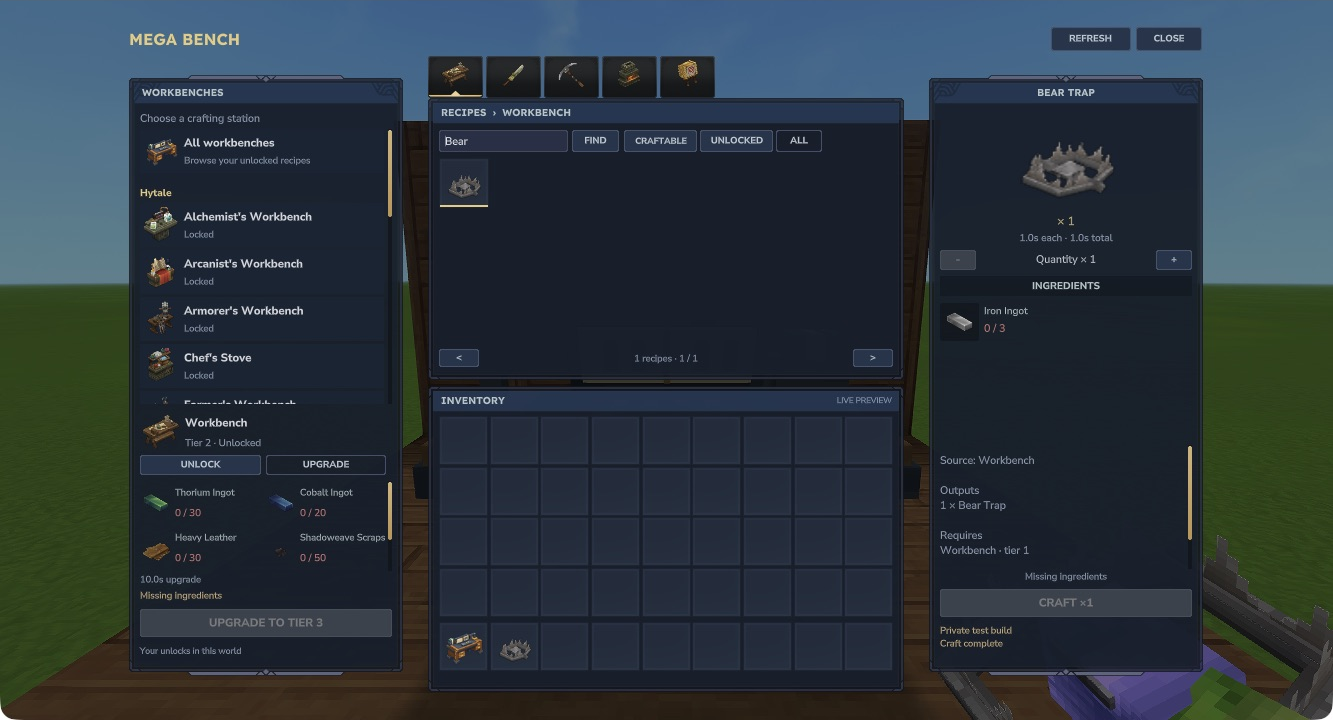
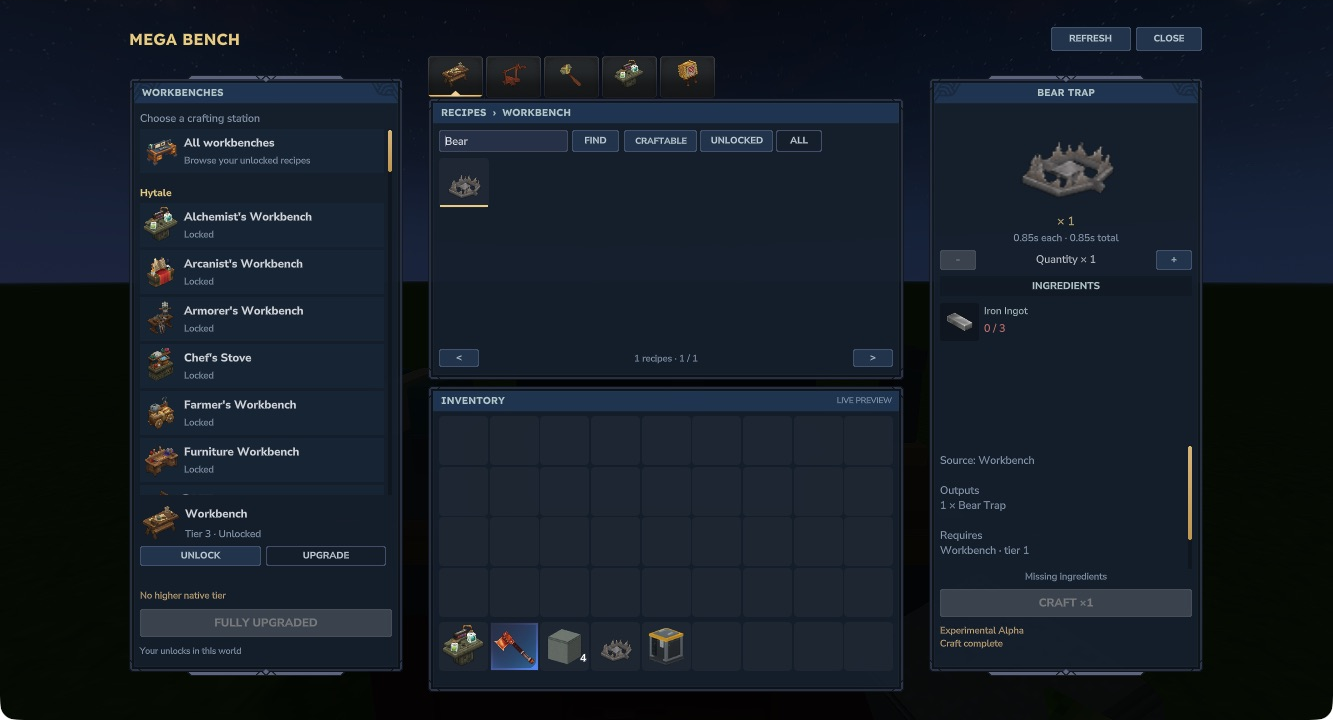
Document the submitted Alpha and refresh native screenshots

diff --git a/docs/index.md b/docs/index.md
@@ -6,9 +6,9 @@ Mega Bench brings compatible workbenches into one spacious native Hytale interfa
 
 Your unlocks belong to you in that world. Replacing the Mega Bench keeps your progress. Unlocking a station pays for its crafting capability; it does not also give you a physical copy of that station.
 
-**Current source candidate:** experimental Alpha **0.1.0-alpha.1**, for **Hytale 0.7.4 / Java 25**. The [CurseForge project](https://www.curseforge.com/hytale/mods/mega-bench) is created; the final native UI check and first file upload are pending. Start in a backed-up test world and read the [support limits](compatibility.md).
+**Current Alpha:** **0.1.0-alpha.1**, for **Hytale 0.7.4 / Java 25**. The native-checked JAR is submitted to [CurseForge](https://www.curseforge.com/hytale/mods/mega-bench) and is **under review**; public availability depends on moderator approval. Start in a backed-up test world and read the [support limits](compatibility.md).
 
-The guide screenshots were captured in development build **0.1.0-spike5r1**. Alpha retains the workshop model and panel layout, with category icons now rendered from loaded native items.
+Current recipe, stock craft and compatibility screenshots show **0.1.0-alpha.1**. Placed-bench photos and the unlock/upgrade walkthrough retain the unchanged model and panel layout from **0.1.0-spike5r1**.
 
 **Experimental preview:** before a more stable 1.0.0, minor updates may change recipes, balance, behaviour or saved data. Back up the complete world and player data before upgrading.
 
@@ -26,7 +26,7 @@ Craft Mega Bench at a stock Workbench using **8 Iron Ingots, 4 Copper Ingots and
 
 [![Current Mega Bench interface showing personal workbench tiers on the left, the recipe grid in the centre and selected recipe details on the right](assets/screenshots/recipe-browser.png)](assets/screenshots/recipe-browser.png)
 
-*Hytale 0.7.4, Mega Bench 0.1.0-spike5r1. Select a workbench to keep its unlock and upgrade controls beneath the source list; the centre remains focused on recipes.*
+*Hytale 0.7.4, Mega Bench 0.1.0-alpha.1. Select a workbench to keep its unlock and upgrade controls beneath the source list; the centre remains focused on recipes.*
 
 Search your unlocked stations, switch their original category tabs, compare the ingredients you own and choose a batch of up to 16 crafts. The bottom inventory is a live preview; use the normal inventory screen to move items.
 

diff --git a/docs/changelog.md b/docs/changelog.md
@@ -1,13 +1,13 @@
 # Development status
 
-## 0.1.0-alpha.1 — candidate
+## 0.1.0-alpha.1 — experimental Alpha
 
 - MIT License added for original Mega Bench code, docs and project assets.
 - Category artwork is rendered through native item widgets; copied game and compatibility UI images are excluded from the public JAR.
 - Native Common.ui slot styles are referenced from the installed game.
 - Crafting, paid progress, inventory authority and saved formats retain the previously verified implementation.
 
-Local build, 11 progress checks, package audit and exact source-build reproduction pass. The final native UI check is pending; no CurseForge file has been uploaded yet.
+Local build, 11 progress checks, package audit and exact source-build reproduction pass. The exact Alpha passed native UI/category loading, stock crafting and normal save/reload. Submitted to [CurseForge](https://www.curseforge.com/hytale/mods/mega-bench) as Alpha; **under review**, with public availability awaiting approval. Hytale **0.7.4 only**; the store's **0.7** tag does not widen compatibility.
 
 ## 0.1.0-spike5r1
 
@@ -21,4 +21,4 @@ Initial development source and player guide for Hytale 0.7.4 / Java 25.
 - Initial ordinary stock, Emberworks Workbench and Foundry Floor adapters.
 - Progress retained through normal reload and bench replacement.
 
-No downloadable binary release is published. Human visual/listening review, actual second-client checks and broader survival/release assurance remain pending. Older development access blocks require normal replacement in a backed-up test world.
+This was the earlier source/guide development build. Human visual/listening review, actual second-client checks and broader survival/release assurance remain pending. Older development access blocks require normal replacement in a backed-up test world.

diff --git a/docs/compatibility.md b/docs/compatibility.md
@@ -2,7 +2,7 @@
 
 ## Supported target
 
-**Mega Bench 0.1.0-alpha.1 candidate** targets **Hytale 0.7.4 / Java 25**. Use the exact matching development build and a backed-up test world. Other Hytale versions are not verified.
+**Mega Bench 0.1.0-alpha.1** targets **Hytale 0.7.4 / Java 25**. Use the exact matching Alpha build and a backed-up test world. Other Hytale versions are not verified.
 
 ## Initial adapters
 
@@ -14,7 +14,7 @@
 | Processing and fuel stations | Use the original station directly |
 | Builder, diagram and unknown plugin interfaces | Separate adapters required |
 
-Current native checks covered paid stock Workbench tiers two and three, an Emberworks Supply Crate and Foundry Poured Factory Concrete. These examples do not establish every recipe or every version combination. The tested compatibility assets are recorded in the source build configuration.
+Current native checks covered paid stock Workbench tiers two and three, an Emberworks Supply Crate and Foundry Poured Factory Concrete. These examples do not establish every recipe or every version combination. The tested compatibility assets are recorded in the source build configuration. The final Alpha also passed native UI loading, all seven Emberworks tabs, Foundry Floor browsing, one exact 3-Iron Bear Trap craft and a normal save/reload with paid tiers intact.
 
 Mega Bench does not provide recursive crafting, a storage network, shared team progress or universal third-party compatibility. Processing-only products retain their source machine rules; the library does not turn them into ordinary free crafts.
 

diff --git a/README.md b/README.md
@@ -16,9 +16,9 @@ One placeable workshop gives you a native crafting library for compatible Hytale
 
 ![Mega Bench's current native crafting interface](docs/assets/screenshots/recipe-browser.png)
 
-**Alpha candidate 0.1.0-alpha.1 · Hytale 0.7.4 · Java 25.** The [CurseForge project](https://www.curseforge.com/hytale/mods/mega-bench) is created, but its first file has not been uploaded. This candidate passes local build/package checks; the final native UI check is pending. The source and player guide are available for development review. Use a separate backed-up world; actual second-player checks and player visual/listening review are still pending. Processing, builder and special plugin stations need separate adapters.
+**Alpha 0.1.0-alpha.1 · Hytale 0.7.4 · Java 25.** The exact native-checked JAR is submitted to [CurseForge](https://www.curseforge.com/hytale/mods/mega-bench) and is **under review**. Public availability depends on moderator approval. Use a separate backed-up world; actual second-player checks and player visual/listening review remain pending. Processing, builder and special plugin stations need separate adapters.
 
-The guide images were captured in 0.1.0-spike5r1. Alpha keeps the same workshop model and panel layout, with category icons rendered from loaded native items instead of copied sprites.
+The current Alpha UI screenshots use native item icons. Placed-bench photos and the unlock/upgrade walkthrough retain the unchanged model and panel layout from 0.1.0-spike5r1.
 
 ## Build from source
 

diff --git a/docs/gallery.md b/docs/gallery.md
@@ -1,6 +1,6 @@
 # Mega Bench in Hytale
 
-The screenshots in this guide show **Mega Bench 0.1.0-spike5r1 in Hytale 0.7.4**. They demonstrate the actual native interface rather than a web mockup. Photography scenes may use Creative setup and supplied test ingredients; they do not prove a complete survival progression route.
+The recipe browser, native craft and compatibility images show **Mega Bench 0.1.0-alpha.1 in Hytale 0.7.4**. The placed-bench photos and unlock/upgrade walkthrough are from **0.1.0-spike5r1**, with the same model and panel layout. These are actual native screenshots. Photography scenes may use Creative setup and supplied test ingredients; they do not prove a complete survival progression route.
 
 Open a screenshot to view it at full size, especially when reading UI labels on a phone.
 
@@ -42,7 +42,7 @@ Open a screenshot to view it at full size, especially when reading UI labels on 
 
 ## Original categories
 
-[![Emberworks storage category in Mega Bench](assets/screenshots/emberworks-categories.png)](assets/screenshots/emberworks-categories.png)
+[![Emberworks machine category in Mega Bench](assets/screenshots/emberworks-categories.png)](assets/screenshots/emberworks-categories.png)
 
 *The original Emberworks tabs remain available inside the library.*
 

diff --git a/docs/installation.md b/docs/installation.md
@@ -4,7 +4,9 @@ Mega Bench is a standard **JAR mod** for **Hytale 0.7.4 / Java 25**. It does not
 
 ## Get the matching build
 
-The [CurseForge project](https://www.curseforge.com/hytale/mods/mega-bench) has been created, but its first file is awaiting the final native UI check and upload. Use a matching development JAR supplied for testing, or build from the [source repository](https://github.com/jkswoods/mega-bench#build-from-source). The current filename is `MegaBench-0.1.0-alpha.1.jar`.
+The experimental **0.1.0-alpha.1** JAR is submitted to [CurseForge](https://www.curseforge.com/hytale/mods/mega-bench) and is **under review**. Public download availability depends on moderator approval. Once approved, use the project website: Alpha files do not appear in the CurseForge client. The store's **0.7** tag means **Hytale 0.7.4 only** for this build.
+
[1 lines of base64/hex data omitted]
 
 ## Add it to a test world
 

diff --git a/docs/library.md b/docs/library.md
@@ -14,9 +14,9 @@ Search uses recipe names, item names and source identity. Press **Find** after e
 - **Unlocked** narrows the list to your paid bench and tier requirements.
 - **Craftable** also checks known recipes and available ingredients for the chosen quantity. The server still checks output space and current state before accepting work.
 
-[![Emberworks storage recipes with the original category tabs](assets/screenshots/emberworks-categories.png)](assets/screenshots/emberworks-categories.png)
+[![Emberworks machine recipes with the original category tabs](assets/screenshots/emberworks-categories.png)](assets/screenshots/emberworks-categories.png)
 
-*Mega Bench 0.1.0-spike5r1 in Hytale 0.7.4. Emberworks retains Machines, Power, Transport, Storage, Multiblocks, Components and Upgrades.*
+*Mega Bench 0.1.0-alpha.1 in Hytale 0.7.4. Emberworks retains Machines, Power, Transport, Storage, Multiblocks, Components and Upgrades.*
 
 ## Check the recipe on the right
 

diff --git a/docs/recipes.md b/docs/recipes.md
@@ -30,7 +30,7 @@ These payments unlock a capability; they do not create the physical bench. A phy
 
 [![Foundry Poured Factory Concrete recipe in Mega Bench](assets/screenshots/foundry-recipe.png)](assets/screenshots/foundry-recipe.png)
 
-*The original Foundry recipe makes four blocks per craft. This current development-build capture also shows the live inventory after crafting.*
+*The original Foundry recipe makes four blocks per craft. This 0.1.0-alpha.1 capture also shows the four previously crafted blocks in the live inventory.*
 
 The hatchet's base recipe takes 4.5 seconds; the displayed value above follows Hytale 0.7.4's native tier adjustment. Ingredient and output quantities scale with the chosen number of crafts. Native source speed adjustments also apply to other eligible recipes.
 
